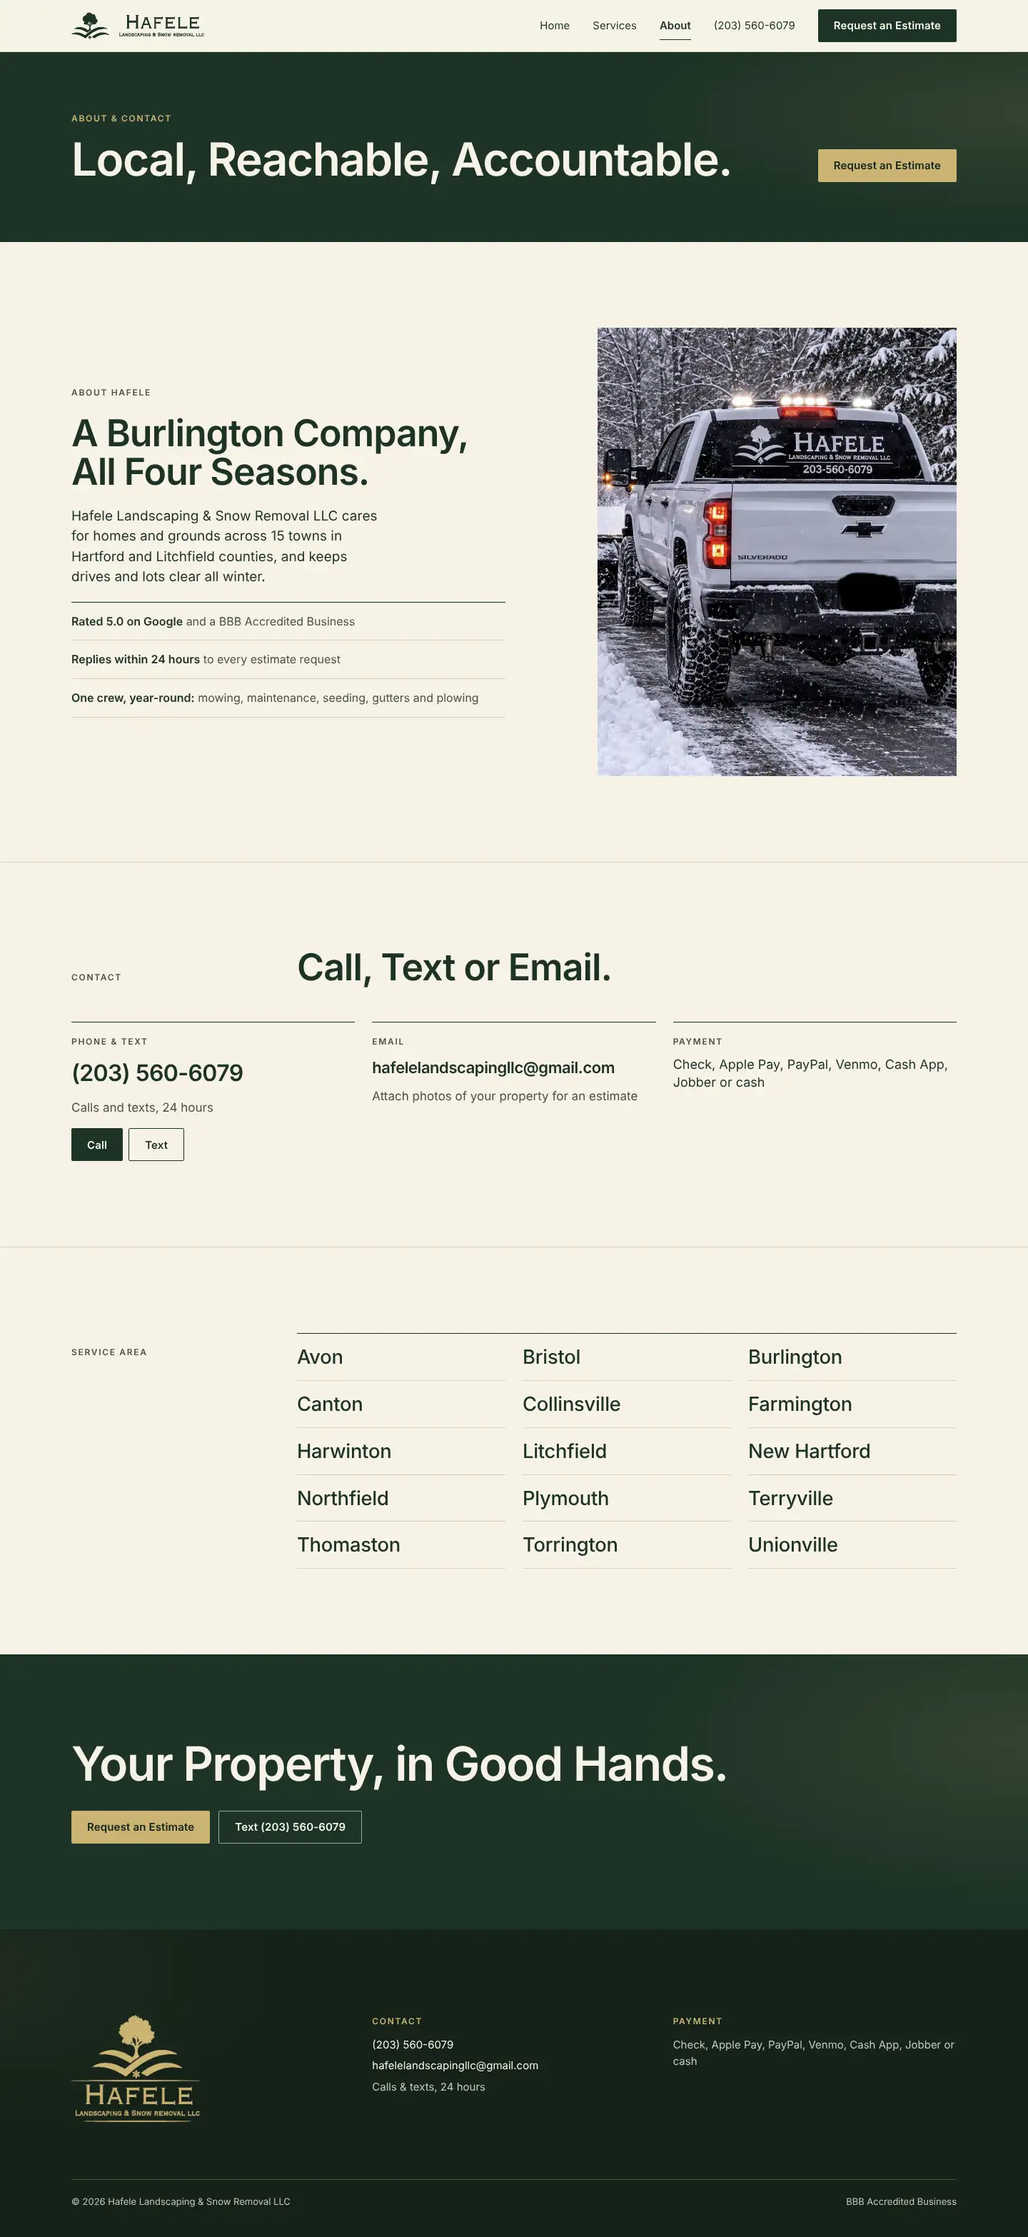
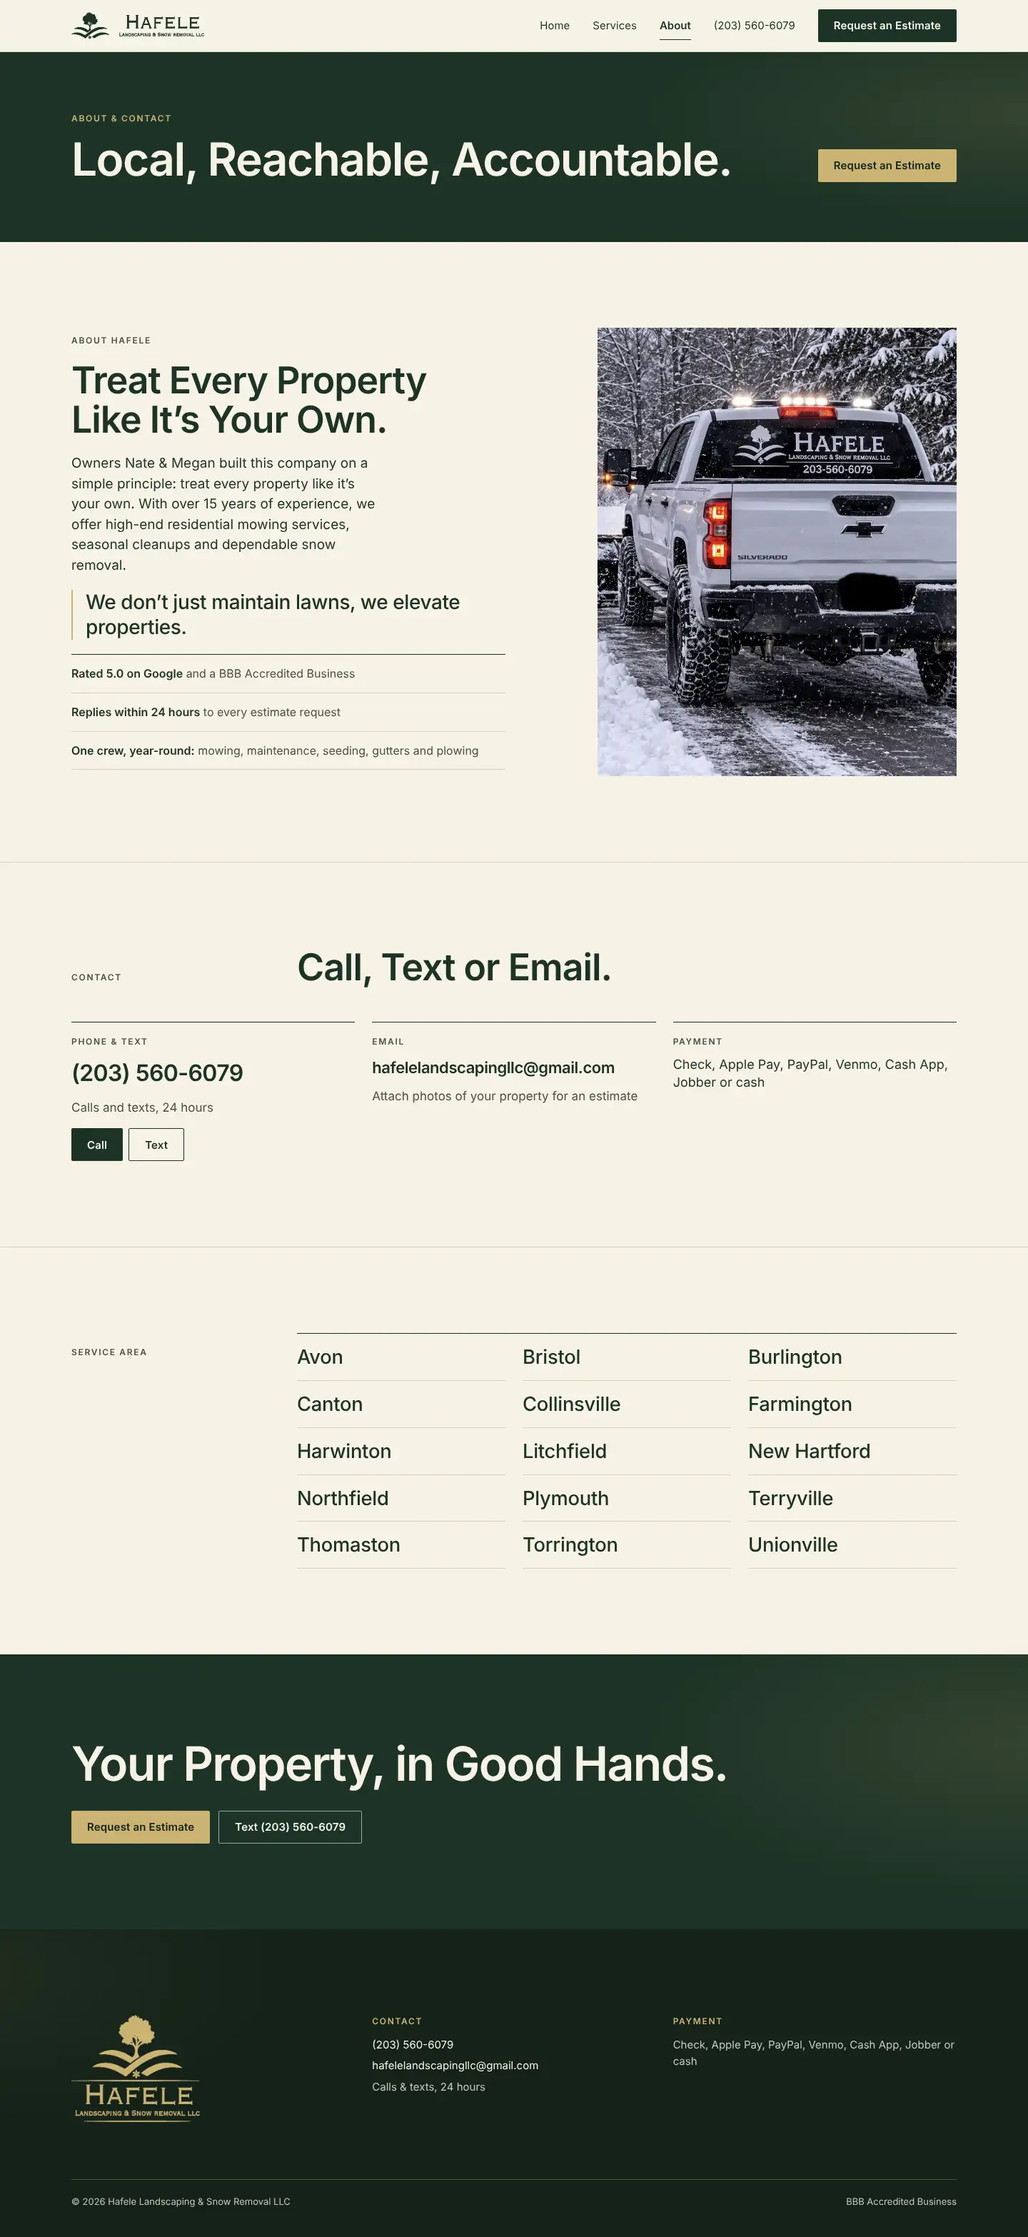
Update Hafele showcase: reviews, owners' About copy, own domain
- Re-shoot Home, Services and About (customer reviews section, About
  written with Nate & Megan, straightened Lawn & Turf photo)
- Live links now point to hafelelandscaping.com
- Write-up mentions reviews, the owners' About page and the domain

Claude-Session: https://claude.ai/code/session_01S1GkKjA7JTsXNm3XxvC6Wo

Changed region(s): [[0.0625, 0.1548, 0.4688, 0.3406]]

diff --git a/index.html b/index.html
@@ -157,7 +157,7 @@ dl.spec a{color:var(--c-acc)}
 .zvp{flex:1;min-height:0;overflow-y:auto;overscroll-behavior:contain;background:#fff;-webkit-overflow-scrolling:touch}
 .zvp img{display:block;width:100%;height:auto}
 .zvp{background-color:#fff;background-size:cover;background-position:center top;background-repeat:no-repeat}
-.shot.bgdani{background:#0B1416 url(img/v3/bg-dani-d.webp?v=4) center top/cover no-repeat}
+.shot.bgdani{background:#0B1416 url(img/v3/bg-dani-d.webp?v=5) center top/cover no-repeat}
 .zframe.phone{width:min(392px,100%);border-radius:34px;padding:4px}
 .zframe.phone .bar{display:none}
 .zframe.phone .zvp{border-radius:30px}
@@ -232,9 +232,9 @@ a:focus-visible{outline:3px solid var(--acc);outline-offset:3px;border-radius:4p
       <p class="where">George Blanchard Jr. · Plantsville, Connecticut</p>
     </div>
     <div class="stage" aria-hidden="true">
-      <div class="br s1"><div class="bar"><i></i><i></i><i></i><span>Hafele Landscaping &amp; Snow Removal</span></div><img src="img/v3/d-hafele-home.webp?v=4" alt=""></div>
-      <div class="br s2"><div class="bar"><i></i><i></i><i></i><span>Dani Hamm — Prints &amp; goods</span></div><img src="img/v3/d-dani-shop.webp?v=4" alt="" style="background:#0B1416 url(img/v3/bg-dani-d.webp?v=4) center top/cover no-repeat"></div>
-      <div class="ph s3"><img src="img/v3/m-hafele-home.webp?v=4" alt=""></div>
+      <div class="br s1"><div class="bar"><i></i><i></i><i></i><span>Hafele Landscaping &amp; Snow Removal</span></div><img src="img/v3/d-hafele-home.webp?v=5" alt=""></div>
+      <div class="br s2"><div class="bar"><i></i><i></i><i></i><span>Dani Hamm — Prints &amp; goods</span></div><img src="img/v3/d-dani-shop.webp?v=5" alt="" style="background:#0B1416 url(img/v3/bg-dani-d.webp?v=5) center top/cover no-repeat"></div>
+      <div class="ph s3"><img src="img/v3/m-hafele-home.webp?v=5" alt=""></div>
     </div>
   </div>
 </section>
@@ -245,51 +245,51 @@ a:focus-visible{outline:3px solid var(--acc);outline-offset:3px;border-radius:4p
     <p class="sub">Three sites, twelve views. Tap one to open it full size and scroll through it.</p>
     <div class="grid">
       <button class="tile" type="button" data-i="0" style="--t-bg:#1D3326;--t-ink:#F6F2E6;--t-acc:#CBB373" aria-label="Open Hafele Landscaping, Home page">
-        <span class="shot"><img src="img/v3/t-hafele-home.webp?v=4" alt="" loading="lazy"></span>
+        <span class="shot"><img src="img/v3/t-hafele-home.webp?v=5" alt="" loading="lazy"></span>
         <span class="lbl"><span class="cl">Hafele Landscaping</span><span class="pg">Home</span></span>
       </button>
       <button class="tile" type="button" data-i="1" style="--t-bg:#1D3326;--t-ink:#F6F2E6;--t-acc:#CBB373" aria-label="Open Hafele Landscaping, Services page">
-        <span class="shot"><img src="img/v3/t-hafele-services.webp?v=4" alt="" loading="lazy"></span>
+        <span class="shot"><img src="img/v3/t-hafele-services.webp?v=5" alt="" loading="lazy"></span>
         <span class="lbl"><span class="cl">Hafele Landscaping</span><span class="pg">Services</span></span>
       </button>
       <button class="tile" type="button" data-i="2" style="--t-bg:#1D3326;--t-ink:#F6F2E6;--t-acc:#CBB373" aria-label="Open Hafele Landscaping, About &amp; contact page">
-        <span class="shot"><img src="img/v3/t-hafele-about.webp?v=4" alt="" loading="lazy"></span>
+        <span class="shot"><img src="img/v3/t-hafele-about.webp?v=5" alt="" loading="lazy"></span>
         <span class="lbl"><span class="cl">Hafele Landscaping</span><span class="pg">About &amp; contact</span></span>
       </button>
       <button class="tile" type="button" data-i="3" style="--t-bg:#121A1D;--t-ink:#E9EEF0;--t-acc:#8FB1B8" aria-label="Open Dani Hamm, Home page">
-        <span class="shot bgdani"><img src="img/v3/t-dani-home.webp?v=4" alt="" loading="lazy"></span>
+        <span class="shot bgdani"><img src="img/v3/t-dani-home.webp?v=5" alt="" loading="lazy"></span>
         <span class="lbl"><span class="cl">Dani Hamm</span><span class="pg">Home</span></span>
       </button>
       <button class="tile" type="button" data-i="4" style="--t-bg:#121A1D;--t-ink:#E9EEF0;--t-acc:#8FB1B8" aria-label="Open Dani Hamm, Shop page">
-        <span class="shot bgdani"><img src="img/v3/t-dani-shop.webp?v=4" alt="" loading="lazy"></span>
+        <span class="shot bgdani"><img src="img/v3/t-dani-shop.webp?v=5" alt="" loading="lazy"></span>
         <span class="lbl"><span class="cl">Dani Hamm</span><span class="pg">Shop</span></span>
       </button>
       <button class="tile" type="button" data-i="5" style="--t-bg:#121A1D;--t-ink:#E9EEF0;--t-acc:#8FB1B8" aria-label="Open Dani Hamm, Product page">
-        <span class="shot bgdani"><img src="img/v3/t-dani-product.webp?v=4" alt="" loading="lazy"></span>
+        <span class="shot bgdani"><img src="img/v3/t-dani-product.webp?v=5" alt="" loading="lazy"></span>
         <span class="lbl"><span class="cl">Dani Hamm</span><span class="pg">Product</span></span>
       </button>
       <button class="tile" type="button" data-i="6" style="--t-bg:#121A1D;--t-ink:#E9EEF0;--t-acc:#8FB1B8" aria-label="Open Dani Hamm, About page">
-        <span class="shot bgdani"><img src="img/v3/t-dani-about.webp?v=4" alt="" loading="lazy"></span>
+        <span class="shot bgdani"><img src="img/v3/t-dani-about.webp?v=5" alt="" loading="lazy"></span>
         <span class="lbl"><span class="cl">Dani Hamm</span><span class="pg">About</span></span>
       </button>
       <button class="tile" type="button" data-i="7" style="--t-bg:#121A1D;--t-ink:#E9EEF0;--t-acc:#8FB1B8" aria-label="Open Dani Hamm, Contact page">
-        <span class="shot bgdani"><img src="img/v3/t-dani-contact.webp?v=4" alt="" loading="lazy"></span>
+        <span class="shot bgdani"><img src="img/v3/t-dani-contact.webp?v=5" alt="" loading="lazy"></span>
         <span class="lbl"><span class="cl">Dani Hamm</span><span class="pg">Contact</span></span>
       </button>
       <button class="tile" type="button" data-i="8" style="--t-bg:#0A0B0D;--t-ink:#F3F3F1;--t-acc:#FF3D2E" aria-label="Open Reillo Private Detail, Home">
-        <span class="shot" style="background:#0A0B0D"><img src="img/v3/t-reillo-top.webp?v=4" alt="" loading="lazy"></span>
+        <span class="shot" style="background:#0A0B0D"><img src="img/v3/t-reillo-top.webp?v=5" alt="" loading="lazy"></span>
         <span class="lbl"><span class="cl">Reillo</span><span class="pg">Home</span></span>
       </button>
       <button class="tile" type="button" data-i="9" style="--t-bg:#0A0B0D;--t-ink:#F3F3F1;--t-acc:#FF3D2E" aria-label="Open Reillo Private Detail, Package builder">
-        <span class="shot" style="background:#0A0B0D"><img src="img/v3/t-reillo-builder.webp?v=4" alt="" loading="lazy"></span>
+        <span class="shot" style="background:#0A0B0D"><img src="img/v3/t-reillo-builder.webp?v=5" alt="" loading="lazy"></span>
         <span class="lbl"><span class="cl">Reillo</span><span class="pg">Package builder</span></span>
       </button>
       <button class="tile" type="button" data-i="10" style="--t-bg:#0A0B0D;--t-ink:#F3F3F1;--t-acc:#FF3D2E" aria-label="Open Reillo Private Detail, Membership">
-        <span class="shot" style="background:#0A0B0D"><img src="img/v3/t-reillo-club.webp?v=4" alt="" loading="lazy"></span>
+        <span class="shot" style="background:#0A0B0D"><img src="img/v3/t-reillo-club.webp?v=5" alt="" loading="lazy"></span>
         <span class="lbl"><span class="cl">Reillo</span><span class="pg">Membership</span></span>
       </button>
       <button class="tile" type="button" data-i="11" style="--t-bg:#0A0B0D;--t-ink:#F3F3F1;--t-acc:#FF3D2E" aria-label="Open Reillo Private Detail, Booking">
-        <span class="shot" style="background:#0A0B0D"><img src="img/v3/t-reillo-book.webp?v=4" alt="" loading="lazy"></span>
+        <span class="shot" style="background:#0A0B0D"><img src="img/v3/t-reillo-book.webp?v=5" alt="" loading="lazy"></span>
         <span class="lbl"><span class="cl">Reillo</span><span class="pg">Booking</span></span>
       </button>
     </div>
@@ -300,7 +300,7 @@ a:focus-visible{outline:3px solid var(--acc);outline-offset:3px;border-radius:4p
   <div class="wrap">
     <div class="hd">
       <div><p class="kind">Client build · Landscaping &amp; snow removal</p><h2 id="haf-h">Hafele Landscaping</h2></div>
-      <div class="acts"><span class="tag">Draft with the owner</span><button class="open" type="button" data-open="0">Open the preview <svg viewBox="0 0 16 16" fill="none" stroke="currentColor" stroke-width="2" aria-hidden="true"><path d="M10 2h4v4M6 14H2v-4M14 2 9 7M2 14l5-5"/></svg></button><a class="live" href="https://b0to1q.github.io/HAFELE/" target="_blank" rel="noopener">Visit the live site <svg viewBox="0 0 16 16" fill="none" stroke="currentColor" stroke-width="2" aria-hidden="true"><path d="M6 3h7v7M13 3 4 12"/></svg></a></div>
+      <div class="acts"><span class="tag">Draft with the owner</span><button class="open" type="button" data-open="0">Open the preview <svg viewBox="0 0 16 16" fill="none" stroke="currentColor" stroke-width="2" aria-hidden="true"><path d="M10 2h4v4M6 14H2v-4M14 2 9 7M2 14l5-5"/></svg></button><a class="live" href="https://hafelelandscaping.com/" target="_blank" rel="noopener">Visit the live site <svg viewBox="0 0 16 16" fill="none" stroke="currentColor" stroke-width="2" aria-hidden="true"><path d="M6 3h7v7M13 3 4 12"/></svg></a></div>
     </div>
     <p class="lead">A site that knows what season it is — and an estimate in two taps, from the driveway.</p>
     <div class="cgrid">
@@ -311,7 +311,8 @@ a:focus-visible{outline:3px solid var(--acc);outline-offset:3px;border-radius:4p
           <li><strong>Four-Season Care.</strong> An annual agreement for year-round upkeep, with its own band on Home and Services, a request-a-walkthrough button, and an option in every season.</li>
           <li><strong>Two-step estimate request.</strong> Pick a service and a time window, then name, cell and address. Send opens a text to the owner with everything filled in, with an email fallback.</li>
           <li><strong>Call, Text and Get an Estimate</strong> pinned to the bottom of the screen on phones.</li>
-          <li><strong>Three pages:</strong> Home, Services with common questions, and About &amp; Contact, written for homeowners in plain language.</li>
+          <li><strong>Reviews in customers' own words</strong> on the home page, and an About page written with owners Nate &amp; Megan.</li>
+          <li><strong>Three pages:</strong> Home, Services with common questions, and About &amp; Contact, written for homeowners in plain language — on its own domain, set up so Google can read the business details and every page shares cleanly.</li>
           <li><strong>Small touches:</strong> real job photos and a walk-around video, sections that fade up as you scroll, smooth scrolling with a mouse or trackpad, and a Verse of the Day above the footer.</li>
         </ul>
       </div>
@@ -322,7 +323,7 @@ a:focus-visible{outline:3px solid var(--acc);outline-offset:3px;border-radius:4p
         <dt>Seasons</dt><dd>Spring · Summer · Fall · Winter, chosen by date</dd>
         <dt>Built with</dt><dd>Hand-written HTML, CSS and JavaScript — fast, no page builder</dd>
         <dt>Next</dt><dd>Requests flow straight into Jobber</dd>
-        <dt>Live</dt><dd><a href="https://b0to1q.github.io/HAFELE/" target="_blank" rel="noopener">b0to1q.github.io/HAFELE</a></dd>
+        <dt>Live</dt><dd><a href="https://hafelelandscaping.com/" target="_blank" rel="noopener">hafelelandscaping.com</a></dd>
       </dl>
     </div>
   </div>
@@ -472,8 +473,8 @@ a:focus-visible{outline:3px solid var(--acc);outline-offset:3px;border-radius:4p
 <footer><div class="wrap"><span><strong style="font-family:var(--disp);font-weight:900;font-stretch:125%;letter-spacing:-.035em;color:var(--ink)">Brand by G<span class="dot">.</span></strong> · Built right. Owned by you.</span><span>© 2026 George Blanchard Jr.</span></div></footer>
 <script>
 {
-  const ITEMS = [{"s": "haf", "p": "Home", "k": "hafele-home", "u": "https://b0to1q.github.io/HAFELE/", "a": "Hafele home page: hero with a seasonal estimate request, quick facts, six services with job photos, the Four-Season Care band, service area, Verse of the Day and footer"}, {"s": "haf", "p": "Services", "k": "hafele-services", "u": "https://b0to1q.github.io/HAFELE/services.html", "a": "Hafele services page: Four-Season Care, then six services with job photos and estimate buttons, then common questions"}, {"s": "haf", "p": "About & contact", "k": "hafele-about", "u": "https://b0to1q.github.io/HAFELE/about.html", "a": "Hafele about and contact page"}, {"s": "dani", "p": "Home", "k": "dani-home", "u": "https://b0to1q.github.io/DANIHAMM/", "a": "Dani Hamm home page: name over a misty hero, three full-screen scenes, then the filterable portfolio", "g": "dani"}, {"s": "dani", "p": "Shop", "k": "dani-shop", "u": "https://b0to1q.github.io/DANIHAMM/shop.html", "a": "Dani Hamm shop: prints and goods, eight products", "g": "dani"}, {"s": "dani", "p": "Product", "k": "dani-product", "u": "https://b0to1q.github.io/DANIHAMM/product.html?item=mug", "a": "Dani Hamm product page for a mug: pick the photo, options and quantity", "g": "dani"}, {"s": "dani", "p": "About", "k": "dani-about", "u": "https://b0to1q.github.io/DANIHAMM/about.html", "a": "Dani Hamm about page", "g": "dani"}, {"s": "dani", "p": "Contact", "k": "dani-contact", "u": "https://b0to1q.github.io/DANIHAMM/contact.html", "a": "Dani Hamm contact page with an inquiry form", "g": "dani"}, {"s": "rei", "p": "Home", "k": "reillo", "u": "https://b0to1q.github.io/REILLO/", "a": "Reillo home: animated REILLO wordmark over a light-leak background, service tickers and the package builder below", "yd": 0, "ym": 0}, {"s": "rei", "p": "Package builder", "k": "reillo", "u": "https://b0to1q.github.io/REILLO/#builder", "a": "Reillo package builder: choose vehicle size, services and add-ons with live pricing and time on site", "yd": 0.1898, "ym": 0.1446}, {"s": "rei", "p": "Membership", "k": "reillo", "u": "https://b0to1q.github.io/REILLO/#club", "a": "The Reillo Club: three monthly membership plans", "yd": 0.6098, "ym": 0.5282}, {"s": "rei", "p": "Booking", "k": "reillo", "u": "https://b0to1q.github.io/REILLO/#book", "a": "Reillo booking request form with arrival windows", "yd": 0.8403, "ym": 0.776}];
-  const SITES = {"haf": {"name": "Hafele Landscaping", "tag": "Client build", "live": "https://b0to1q.github.io/HAFELE/", "bg": "#1D3326", "ink": "#F6F2E6", "acc": "#CBB373", "rule": "#38533F", "soft": "#C9CFBF"}, "dani": {"name": "Dani Hamm", "tag": "Spec concept", "live": "https://b0to1q.github.io/DANIHAMM/", "bg": "#121A1D", "ink": "#E9EEF0", "acc": "#8FB1B8", "rule": "#2A3639", "soft": "#A3B1B5"}, "rei": {"name": "Reillo Private Detail", "tag": "In progress", "live": "https://b0to1q.github.io/REILLO/", "bg": "#0A0B0D", "ink": "#F3F3F1", "acc": "#FF3D2E", "rule": "#262A31", "soft": "#A3A7AE"}};
+  const ITEMS = [{"s": "haf", "p": "Home", "k": "hafele-home", "u": "https://hafelelandscaping.com/", "a": "Hafele home page: hero with a seasonal estimate request, quick facts, six services with job photos, customer reviews, the Four-Season Care band, service area, Verse of the Day and footer"}, {"s": "haf", "p": "Services", "k": "hafele-services", "u": "https://hafelelandscaping.com/services.html", "a": "Hafele services page: Four-Season Care, then six services with job photos and estimate buttons, then common questions"}, {"s": "haf", "p": "About & contact", "k": "hafele-about", "u": "https://hafelelandscaping.com/about.html", "a": "Hafele about and contact page"}, {"s": "dani", "p": "Home", "k": "dani-home", "u": "https://b0to1q.github.io/DANIHAMM/", "a": "Dani Hamm home page: name over a misty hero, three full-screen scenes, then the filterable portfolio", "g": "dani"}, {"s": "dani", "p": "Shop", "k": "dani-shop", "u": "https://b0to1q.github.io/DANIHAMM/shop.html", "a": "Dani Hamm shop: prints and goods, eight products", "g": "dani"}, {"s": "dani", "p": "Product", "k": "dani-product", "u": "https://b0to1q.github.io/DANIHAMM/product.html?item=mug", "a": "Dani Hamm product page for a mug: pick the photo, options and quantity", "g": "dani"}, {"s": "dani", "p": "About", "k": "dani-about", "u": "https://b0to1q.github.io/DANIHAMM/about.html", "a": "Dani Hamm about page", "g": "dani"}, {"s": "dani", "p": "Contact", "k": "dani-contact", "u": "https://b0to1q.github.io/DANIHAMM/contact.html", "a": "Dani Hamm contact page with an inquiry form", "g": "dani"}, {"s": "rei", "p": "Home", "k": "reillo", "u": "https://b0to1q.github.io/REILLO/", "a": "Reillo home: animated REILLO wordmark over a light-leak background, service tickers and the package builder below", "yd": 0, "ym": 0}, {"s": "rei", "p": "Package builder", "k": "reillo", "u": "https://b0to1q.github.io/REILLO/#builder", "a": "Reillo package builder: choose vehicle size, services and add-ons with live pricing and time on site", "yd": 0.1898, "ym": 0.1446}, {"s": "rei", "p": "Membership", "k": "reillo", "u": "https://b0to1q.github.io/REILLO/#club", "a": "The Reillo Club: three monthly membership plans", "yd": 0.6098, "ym": 0.5282}, {"s": "rei", "p": "Booking", "k": "reillo", "u": "https://b0to1q.github.io/REILLO/#book", "a": "Reillo booking request form with arrival windows", "yd": 0.8403, "ym": 0.776}];
+  const SITES = {"haf": {"name": "Hafele Landscaping", "tag": "Client build", "live": "https://hafelelandscaping.com/", "bg": "#1D3326", "ink": "#F6F2E6", "acc": "#CBB373", "rule": "#38533F", "soft": "#C9CFBF"}, "dani": {"name": "Dani Hamm", "tag": "Spec concept", "live": "https://b0to1q.github.io/DANIHAMM/", "bg": "#121A1D", "ink": "#E9EEF0", "acc": "#8FB1B8", "rule": "#2A3639", "soft": "#A3B1B5"}, "rei": {"name": "Reillo Private Detail", "tag": "In progress", "live": "https://b0to1q.github.io/REILLO/", "bg": "#0A0B0D", "ink": "#F3F3F1", "acc": "#FF3D2E", "rule": "#262A31", "soft": "#A3A7AE"}};
   const $ = id => document.getElementById(id);
   const zoom = $('zoom'), frame = $('zframe'), vp = $('zvp'), img = $('zimg'), tabs = $('ztabs'), dots = $('zdots');
   const tiles = [...document.querySelectorAll('.tile')];
@@ -491,8 +492,8 @@ a:focus-visible{outline:3px solid var(--acc);outline-offset:3px;border-radius:4p
 
   const paint = it => {
     const sz = mode === 'phone' ? 'm' : 'd';
-    const src = 'img/v3/' + sz + '-' + it.k + '.webp?v=4';
-    vp.style.backgroundImage = it.g ? `url(img/v3/bg-${it.g}-${sz}.webp?v=4)` : 'none';
+    const src = 'img/v3/' + sz + '-' + it.k + '.webp?v=5';
+    vp.style.backgroundImage = it.g ? `url(img/v3/bg-${it.g}-${sz}.webp?v=5)` : 'none';
     vp.style.backgroundColor = it.g ? '#0B1416' : (it.s === 'rei' ? '#0A0B0D' : '#fff');
     const y = (mode === 'phone' ? it.ym : it.yd) || 0;
     const go = () => { vp.scrollTop = Math.round(y * img.offsetHeight); };
@@ -520,7 +521,7 @@ a:focus-visible{outline:3px solid var(--acc);outline-offset:3px;border-radius:4p
     tabs.querySelector('[aria-selected=true]')?.scrollIntoView({block: 'nearest', inline: 'nearest'});
     dots.innerHTML = ITEMS.map((x, j) => `<i class="${j === cur ? 'on' : ''}"></i>`).join('');
     if (dir) { frame.classList.remove('slide-l', 'slide-r'); void frame.offsetWidth; frame.classList.add(dir > 0 ? 'slide-l' : 'slide-r'); }
-    [cur - 1, cur + 1].forEach(j => { const x = ITEMS[(j + ITEMS.length) % ITEMS.length]; new Image().src = 'img/v3/' + (mode === 'phone' ? 'm-' : 'd-') + x.k + '.webp?v=4'; });
+    [cur - 1, cur + 1].forEach(j => { const x = ITEMS[(j + ITEMS.length) % ITEMS.length]; new Image().src = 'img/v3/' + (mode === 'phone' ? 'm-' : 'd-') + x.k + '.webp?v=5'; });
   };
 
   const rectClip = r => `inset(${r.top}px ${innerWidth - r.right}px ${innerHeight - r.bottom}px ${r.left}px round 14px)`;
